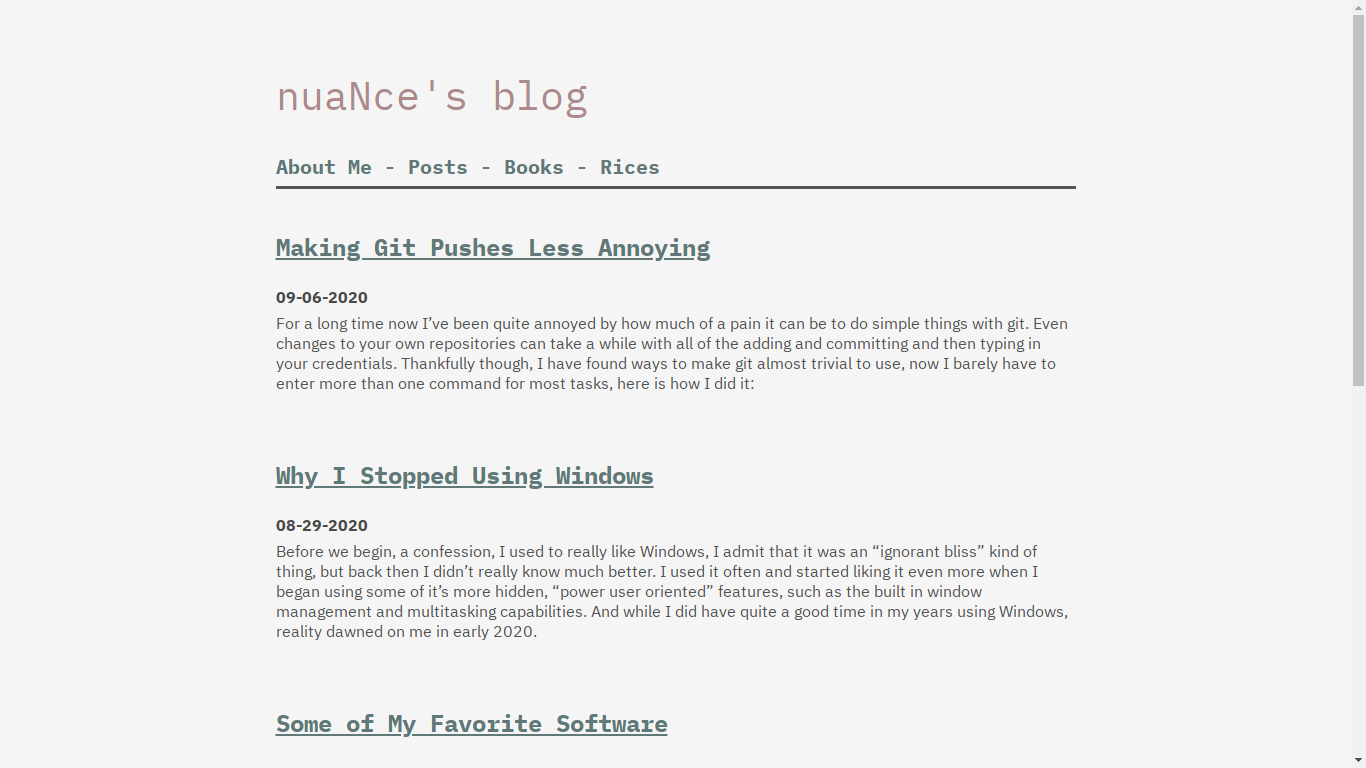
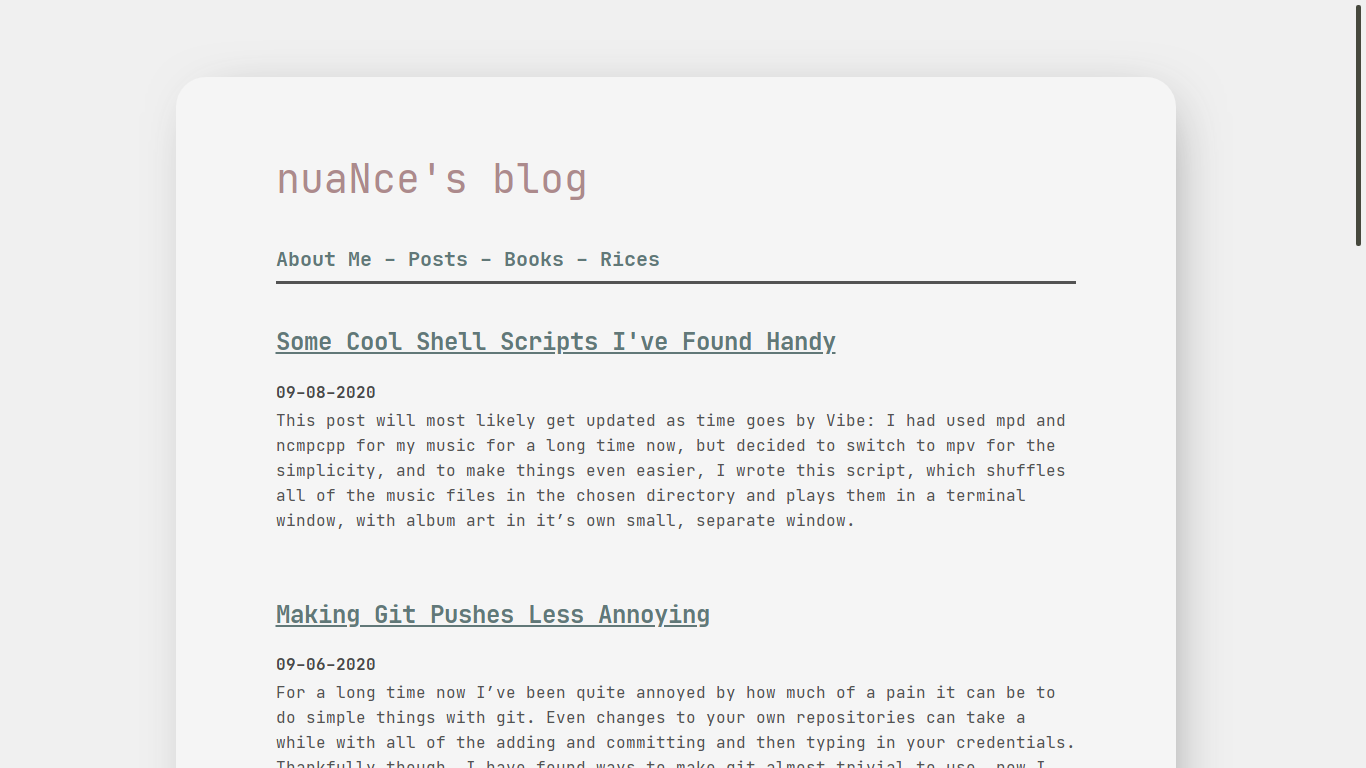
Tue Sep  8 11:37:46 PM CDT 2020

diff --git a/static/css/style.css b/static/css/style.css
@@ -1,19 +1,25 @@
 html {
   overflow-y: scroll;
+  background-color: #f0f0f0;
 }
 
 body {
-  max-width: 800px;
+  max-width: 80ch;
   width: 100vw;
-  margin: 1vh auto;
-  padding-right: 4vw;
-  padding-left: 4vw;
-  padding-top: 8vh;
-  padding-bottom: 8vh;
-  font-family: sans-serif;
+  margin: 10vh auto;
+  padding-right: 10ch;
+  padding-left: 10ch;
+  padding-top: 7ch;
+  padding-bottom: 7ch;
+  font-family: "JetBrains Mono", "IBM Plex Mono", "Roboto Mono", "Jetbrains Mono", "SF Mono", "Consolas", monospace;
   font-size: 16px;
+  line-height: 1.6;
   background-color: #f5f5f5;
   color: #535353;
+  border-radius: 30px;
+  -webkit-box-shadow: 10px 10px 60px -25px rgba(54,54,54,0.6);
+  -moz-box-shadow: 10px 10px 60px -25px rgba(54,54,54,0.6);
+  box-shadow: 10px 10px 60px -25px rgba(54,54,54,0.6);
 }
 
 header {
@@ -28,7 +34,7 @@ nav {
   padding-bottom: 0.3em;
   border-bottom: 3px solid #535353;
   margin-bottom: -1em;
-  font-family: monospace;
+  font-family: "JetBrains Mono", "IBM Plex Mono", "Roboto Mono", "Jetbrains Mono", "SF Mono", "Consolas", monospace;
 }
 
 h1,
@@ -37,7 +43,7 @@ h3,
 h4,
 h5,
 h6 {
-  font-family: monospace;
+  font-family: "JetBrains Mono", "IBM Plex Mono", "Roboto Mono", "Jetbrains Mono", "SF Mono", "Consolas", monospace;
   font-weight: bold;
   color: #494949;
   line-height: 1.2;
@@ -51,7 +57,7 @@ time {
 
 
 .title {
-  font-family: monospace;
+  font-family: "JetBrains Mono", "IBM Plex Mono", "Roboto Mono", "Jetbrains Mono", "SF Mono", "Consolas", monospace;
   font-size: 2em;
   color: #ac8a8c;
   text-decoration: none;
@@ -80,11 +86,12 @@ a:focus {
 }
 
 p > code {
-  padding-left: 0.25em;
-  padding-right: 0.25em;
-  padding-top: 0.1em;
-  padding-bottom: 0.1em;
+  padding-left: 0.5em;
+  padding-right: 0.5em;
+  padding-top: 0.2em;
+  padding-bottom: 0.2em;
   color: #f5f5f5;
+  border-radius: 3px;
   background-color: #272822;
   font-size: 0.9em;
 }
@@ -93,14 +100,18 @@ pre {
   box-sizing: border-box;
   white-space: pre;
 	width: 100%;
-	padding: 1em;
-	margin: 0;
 	overflow: auto;
 	overflow-y: hidden;
-	font-size: 14px;
-	line-height: 1.6;
-	border: 1px solid #4c4c4c;
-	padding: 10px;
+	font-size: 16px;
+	line-height: 1.8;
+  margin-top: 50px;
+  margin-bottom: 60px;
+	padding: 28px;
+  border: 5px solid #272822;
+  border-radius: 10px;
+  -webkit-box-shadow: 10px 8px 60px -25px rgba(0,0,0,0.75);
+  -moz-box-shadow: 10px 8px 60px -25px rgba(0,0,0,0.75);
+  box-shadow: 10px 8px 60px -25px rgba(0,0,0,0.75);
 }
 
 article {
@@ -115,29 +126,25 @@ article {
 }
 
 .image, figure img, img {
-  width: 100%;
-  -webkit-box-shadow: 0px 0px 5px 2px rgba(0,0,0,0.42);
-  -moz-box-shadow: 0px 0px 5px 2px rgba(0,0,0,0.42);
-  box-shadow: 0px 0px 5px 2px rgba(0,0,0,0.42);
-}
-
-.float-image-right, figure.float-right img, img[src*="float-right"] {
-  width: 300px;
-  float: right;
-  margin: 1.1em 0em 1em 2em;
-  -webkit-box-shadow: 0px 0px 5px 0px rgba(5,5,5,1);
-  -moz-box-shadow: 0px 0px 5px 0px rgba(5,5,5,1);
-  box-shadow: 0px 0px 5px 0px rgba(5,5,5,1);
+  width: 80ch;
+  margin: 0 auto;
+  margin-top: 20px;
+  margin-bottom: 25px;
 }
 
 blockquote {
   margin-left: 0em;
+  margin-top: 20px;
+  margin-bottom: 40px;
   padding: 0.2em 2em;
   position: relative;
-  color: #494949;
-  background-color: #efefef;
+  color: #f0f0f0;
+  background-color: #676767;
+  border-radius: 10px;
   font-size: 16px;
-  border-left: 3px solid #535353;
+  -webkit-box-shadow: 10px 10px 13px -8px rgba(0,0,0,0.3);
+  -moz-box-shadow: 10px 10px 13px -8px rgba(0,0,0,0.3);
+  box-shadow: 10px 10px 13px -8px rgba(0,0,0,0.3);
 }
 
 table {
@@ -145,20 +152,39 @@ table {
   border-collapse: collapse;
   border-spacing: 0;
   color: #535353;
+  background-color: #f5f5f5;
 }
 
 table th {
-  background-color: transparent;
+  background-color: #e7e7e7;
   color: #494949;
 }
 
 table th, table td {
   padding: 5px 10px;
-  border-bottom: 3px solid #494949;
-  border-right: 2px solid #f5f5f5;
-  border-left: 2px solid #f5f5f5;
+  border-bottom: 2px solid #494949;
+  border-right: 4px solid #f5f5f5;
 }
 
 table thead {
-  background-color: #efefef;
+  background-color: transparent;
+}
+
+::-webkit-scrollbar {
+  width: 15px;
+}
+
+::-webkit-scrollbar-track {
+  border-radius: 0px;
+}
+
+::-webkit-scrollbar-thumb {
+  border: 5px solid #f0f0f0;
+  border-radius: 10px;
+  background: #46483d;
+}
+
+::-webkit-scrollbar-thumb:hover {
+  background: #5b5d4f;
+  border-radius: 10px;
 }

diff --git a/layouts/partials/footer.html b/layouts/partials/footer.html
@@ -1,6 +1,6 @@
 <footer>
 	<br />
-	<p>&copy; {{ now.Year }} - <a href="https://github.com/co1ncidence"><b>Made By nuaNce</b></a>.
+	<p>&copy; {{ now.Year }} - <a href="https://github.com/co1ncidence"><b>nuaNce</b></a>.
 	{{- range .Site.Menus.footer }}
 	<a href="{{ .URL }}"><b>{{ .Name }}</b></a>.
         {{- end }}

diff --git a/layouts/index.html b/layouts/index.html
@@ -1,4 +1,10 @@
 {{ define "main" }}
+	<style>
+		@font-face {
+			font-family: "Apercu Mono"
+			src: url(fonts/'Apercu Mono.otf');
+			}
+	</style>
 	<main>
 		{{ $paginator := .Paginate (where .Site.RegularPages "Type" "in" .Site.Params.mainSections) }}
 		{{ range $paginator.Pages }}

diff --git a/layouts/_default/summary.html b/layouts/_default/summary.html
@@ -1,5 +1,5 @@
 <article>
-	<h1><a href="{{ .Permalink }}">{{ .Title }}</a></h1>
+		<h1><a href="{{ .Permalink }}">{{ .Title }}</a></h1>
 	<b><time>{{ .Date.Format (default "01-02-2006" .Site.Params.dateFmt) }}</time></b>
 	{{ range .Params.tags }}
 	{{ end }}
